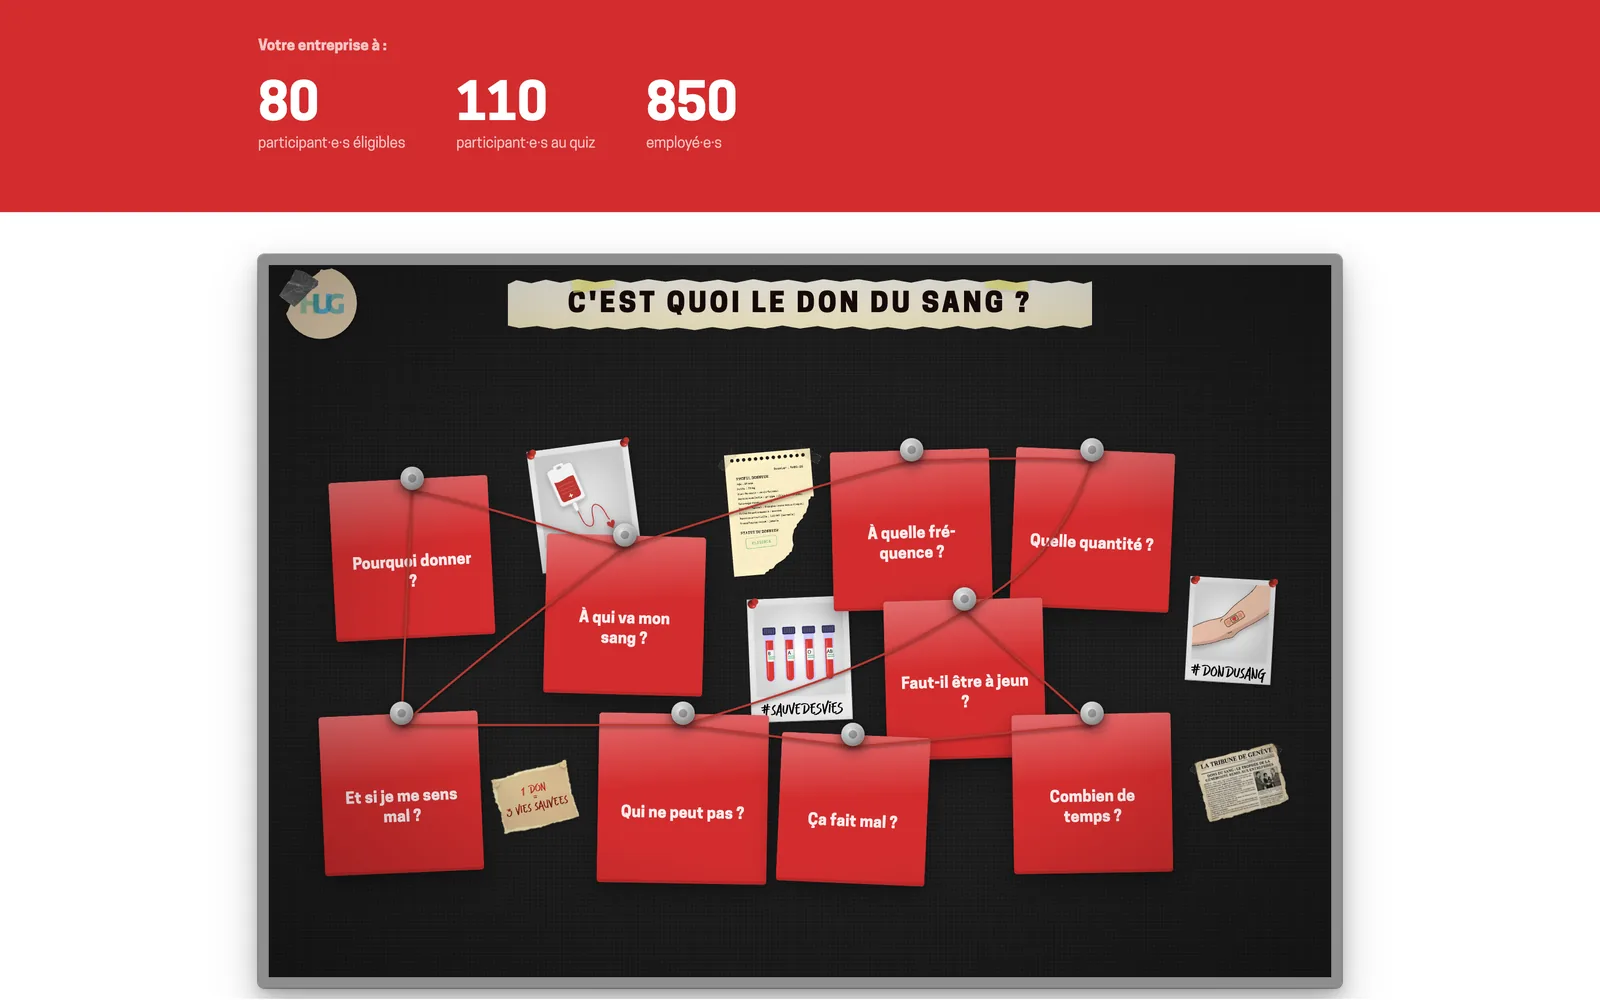
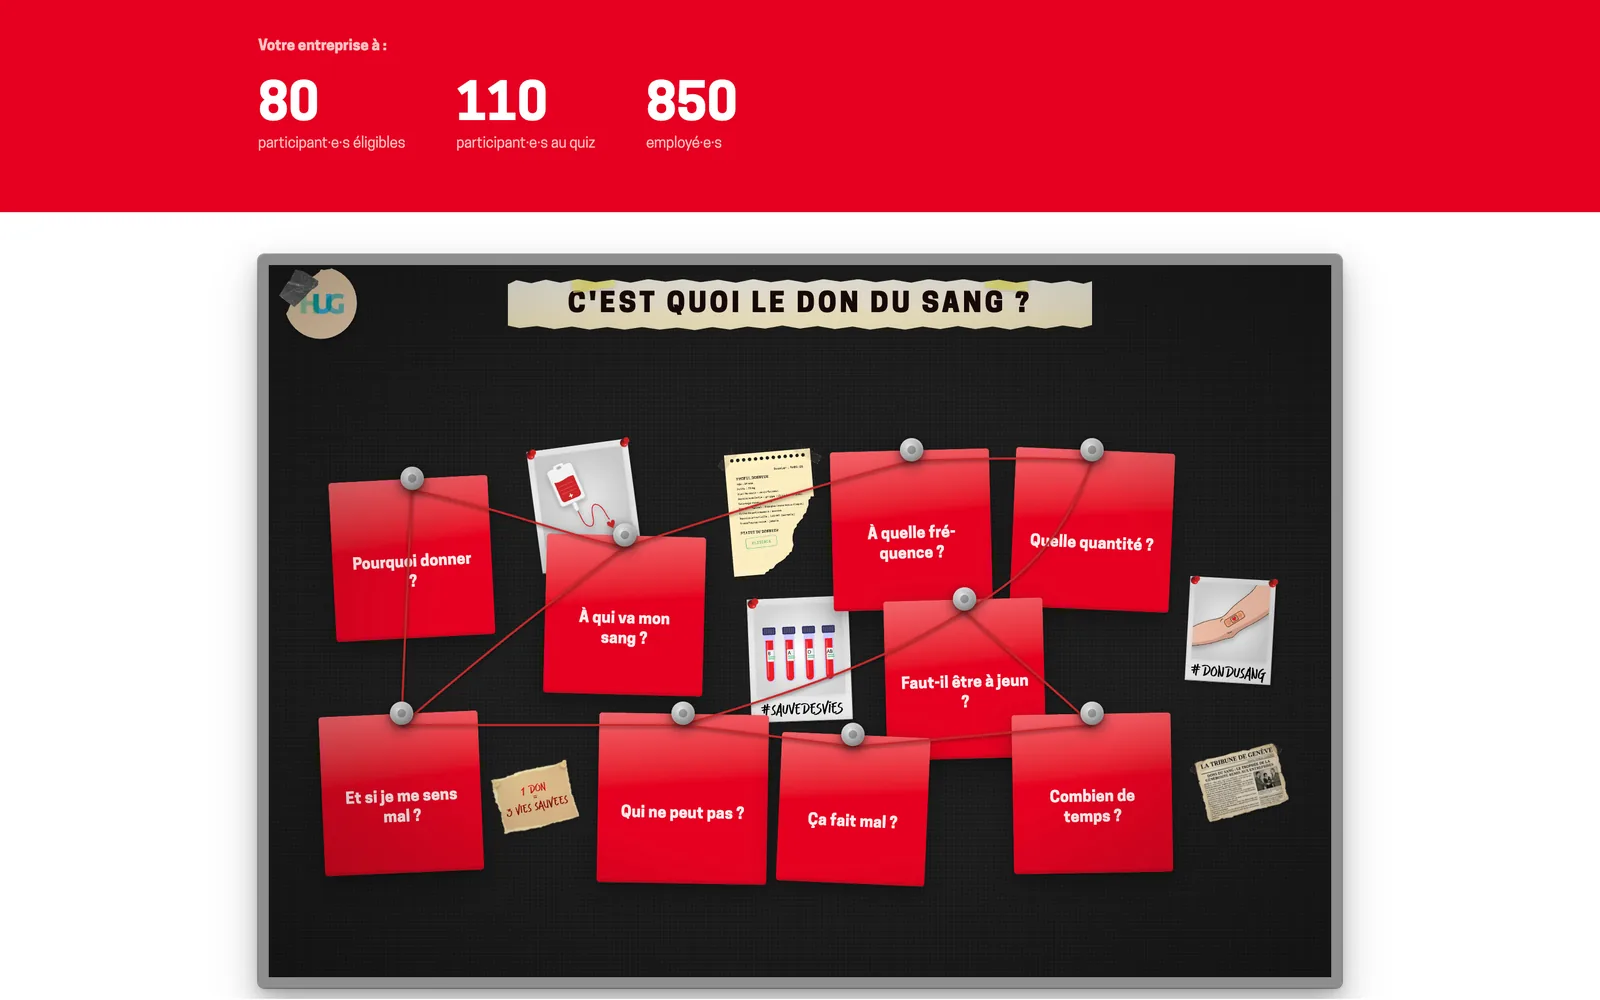
Fix washed-out screenshots: convert Display P3 captures to sRGB; image variant script now colour-managed

diff --git a/scripts/make-image-variants.py b/scripts/make-image-variants.py
@@ -3,8 +3,21 @@
 Used where images are displayed small (hero image trail, thumbnails) and in srcset for
 phones. Run after adding or replacing a project image:  python3 scripts/make-image-variants.py
 """
+import io
 from pathlib import Path
-from PIL import Image
+from PIL import Image, ImageCms
+
+SRGB = ImageCms.createProfile('sRGB')
+
+
+def to_srgb(im):
+    """Pixels converted to sRGB. Mac screenshots are tagged Display P3: dropping the profile
+    without converting makes their colours look washed out in the browser."""
+    icc = im.info.get('icc_profile')
+    if icc:
+        source = ImageCms.ImageCmsProfile(io.BytesIO(icc))
+        return ImageCms.profileToProfile(im.convert('RGB'), source, SRGB, outputMode='RGB')
+    return im.convert('RGB')
 
 SRC = Path('public/images')
 VARIANTS = {'sm': (640, 76), 'md': (1280, 78)}
@@ -17,5 +30,5 @@ for folder, (width, quality) in VARIANTS.items():
         with Image.open(path) as im:
             w = min(width, im.width)  # never upscale (some originals are 1200px wide)
             h = round(im.height * w / im.width)
-            im.convert('RGB').resize((w, h), Image.LANCZOS).save(target, 'WEBP', quality=quality, method=6)
+            to_srgb(im).resize((w, h), Image.LANCZOS).save(target, 'WEBP', quality=quality, method=6)
         print(f'{folder}/{path.name}: {path.stat().st_size // 1024} KB -> {target.stat().st_size // 1024} KB')
